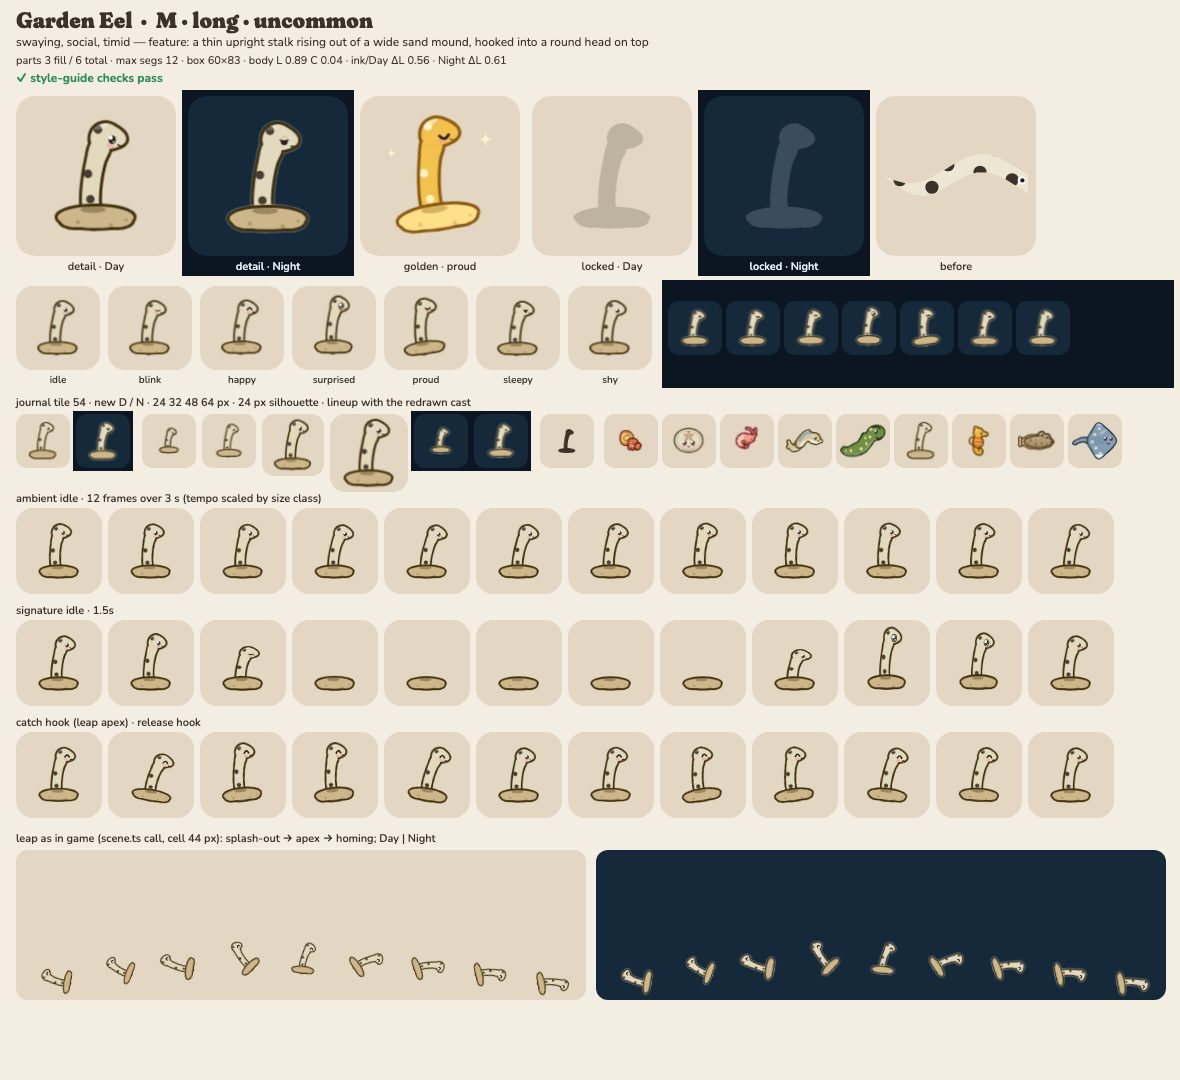
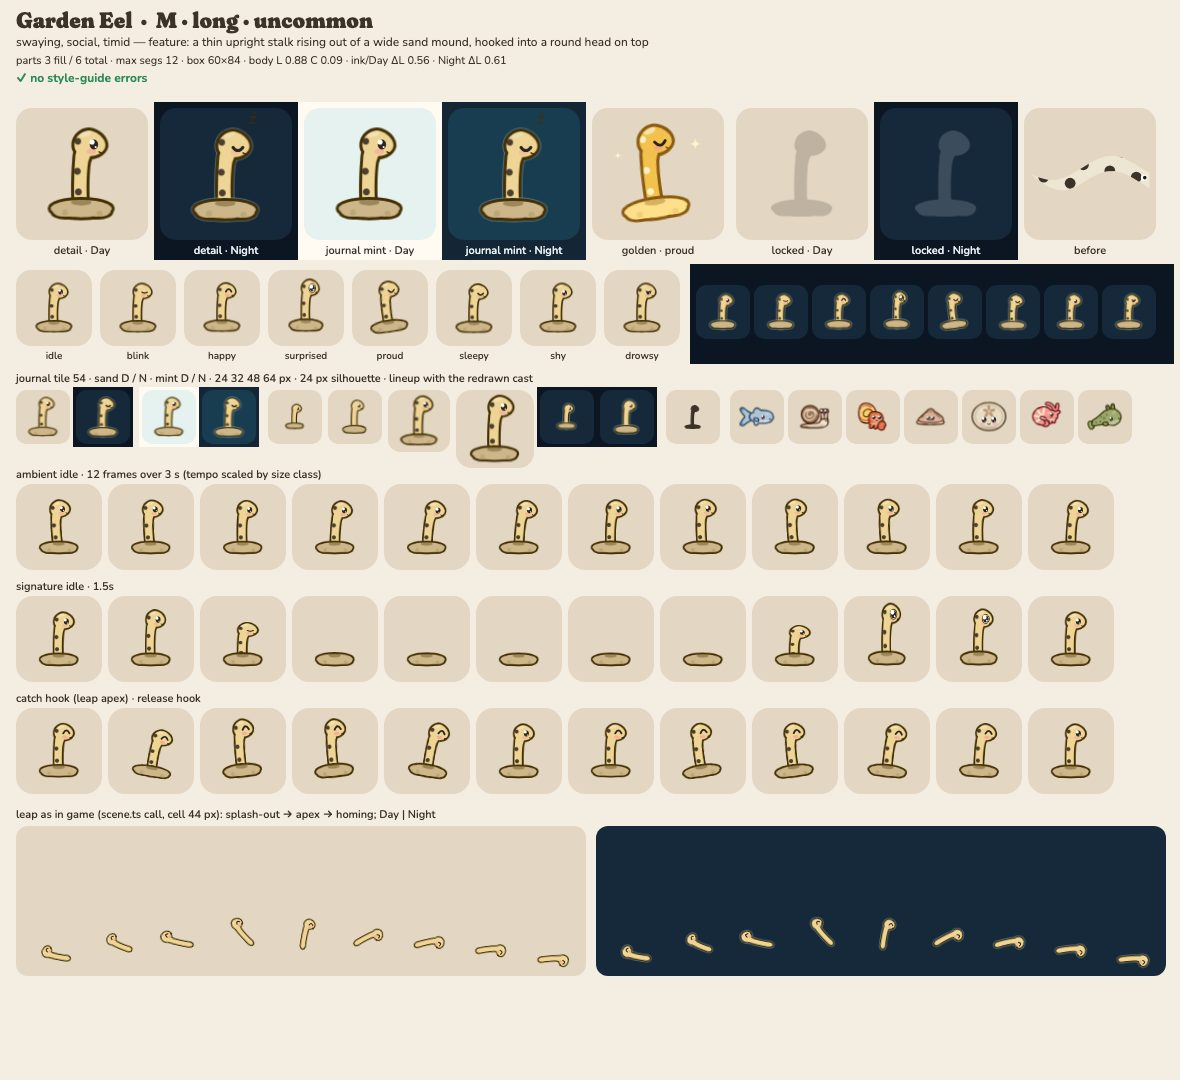
render: gardeneel B fixes — periscope head, mound stays home (ADR 0011)
CRITIQUE-1 B. Head 1.8x the stalk, eye 9.6 u (24 %), stalk upright (9 deg); warm cream #EED595 (C 0.09, off the mint tile) with dark spots kept 1.5 eye-widths from the eye; mound pebbles enlarged; leap.hide drops the mound. Lint clean.

diff --git a/src/render/art/species/gardeneel.ts b/src/render/art/species/gardeneel.ts
@@ -8,23 +8,23 @@
 import { blob, circle, defineArt, ellipse, join, tube } from '../kit.ts';
 
 const stalk = tube([
-  [-6, 38, 6.6],
-  [-8, 24, 6.8],
-  [-7, 8, 6.8],
-  [-4, -8, 7],
-  [0, -20, 7.6],
+  [-4, 38, 6],
+  [-5, 24, 6.2],
+  [-5, 8, 6.2],
+  [-4, -8, 6.4],
+  [-2, -18, 6.8],
 ]);
-// one smooth head with a rounded snout (two ellipses read as a lump)
+// one smooth, big round head (≈ 1.8× the stalk) with a rounded snout: a periscope, not a cane
 const head = blob([
-  [-8, -27],
-  [-4, -35],
-  [5, -38],
-  [14, -34],
-  [20, -28],
+  [-11, -26],
+  [-7, -35],
+  [3, -39.5],
+  [13, -36],
+  [19, -29],
   [19, -22],
-  [10, -18],
-  [0, -18],
-  [-6, -20],
+  [12, -16],
+  [1, -14.5],
+  [-8, -18],
 ]);
 const mound = join(ellipse(-4, 36, 30, 8.5), ellipse(-20, 38, 12, 6), ellipse(13, 38, 12, 6));
 
@@ -34,7 +34,7 @@ export default defineArt({
   size: 'M',
   feature: 'a thin upright stalk rising out of a wide sand mound, hooked into a round head on top',
   personality: ['swaying', 'social', 'timid'],
-  palette: { body: '#E3D9BE', accent: '#4A3E33', belly: '#CDB78A' },
+  palette: { body: '#EED595', accent: '#4A3E33', belly: '#CDB78A' },
   groups: [
     {
       id: 'body',
@@ -42,7 +42,7 @@ export default defineArt({
       parts: [
         { d: stalk, role: 'body' },
         { d: head, role: 'body' },
-        { d: join(circle(-2, -33, 3.4), circle(-10, 2, 3.4), circle(-8, 22, 3.4)), role: 'accent', kind: 'pattern' },
+        { d: join(circle(-7.5, -29, 3.2), circle(-8, 0, 3.4), circle(-7, 20, 3.4)), role: 'accent', kind: 'pattern' },
       ],
     },
     {
@@ -50,28 +50,24 @@ export default defineArt({
       pivot: [-4, 40],
       parts: [
         { d: mound, role: 'belly' },
-        {
-          d: join(circle(-18, 40, 1.6), circle(8, 42, 1.4), circle(20, 38, 1.2)),
-          role: 'ink',
-          kind: 'pattern',
-          alpha: 0.25,
-        },
-        { d: ellipse(-6, 30, 10, 2.6), role: 'ink', kind: 'pattern', alpha: 0.35 },
+        { d: join(circle(-20, 40, 3), circle(14, 41, 3)), role: 'ink', kind: 'pattern', alpha: 0.12 },
+        { d: ellipse(-4, 30, 10, 3), role: 'ink', kind: 'pattern', alpha: 0.35 },
       ],
     },
   ],
   shine: ellipse(0, -36, 6, 2.6, -16),
   face: {
-    eyes: [[9, -25]],
-    eye: 6.6,
-    zone: [-8, -41, 29, 28],
-    mouth: { at: [16, -21], w: 5, shape: 'smile' },
+    eyes: [[8, -26]],
+    eye: 9.6,
+    zone: [-11, -49, 31, 40],
+    mouth: { at: [15.5, -19], w: 5, shape: 'smile' },
     sweet: true,
   },
   deviations: {
     R7: 'the body box is set by the burrow mound; the profile eye sits in the head at the top of the stalk',
   },
   ground: true,
+  leap: { hide: ['mound'] },
   idle: {
     ambient: [
       { m: 'sway', g: 'body', amp: 5, period: 2.2 },
